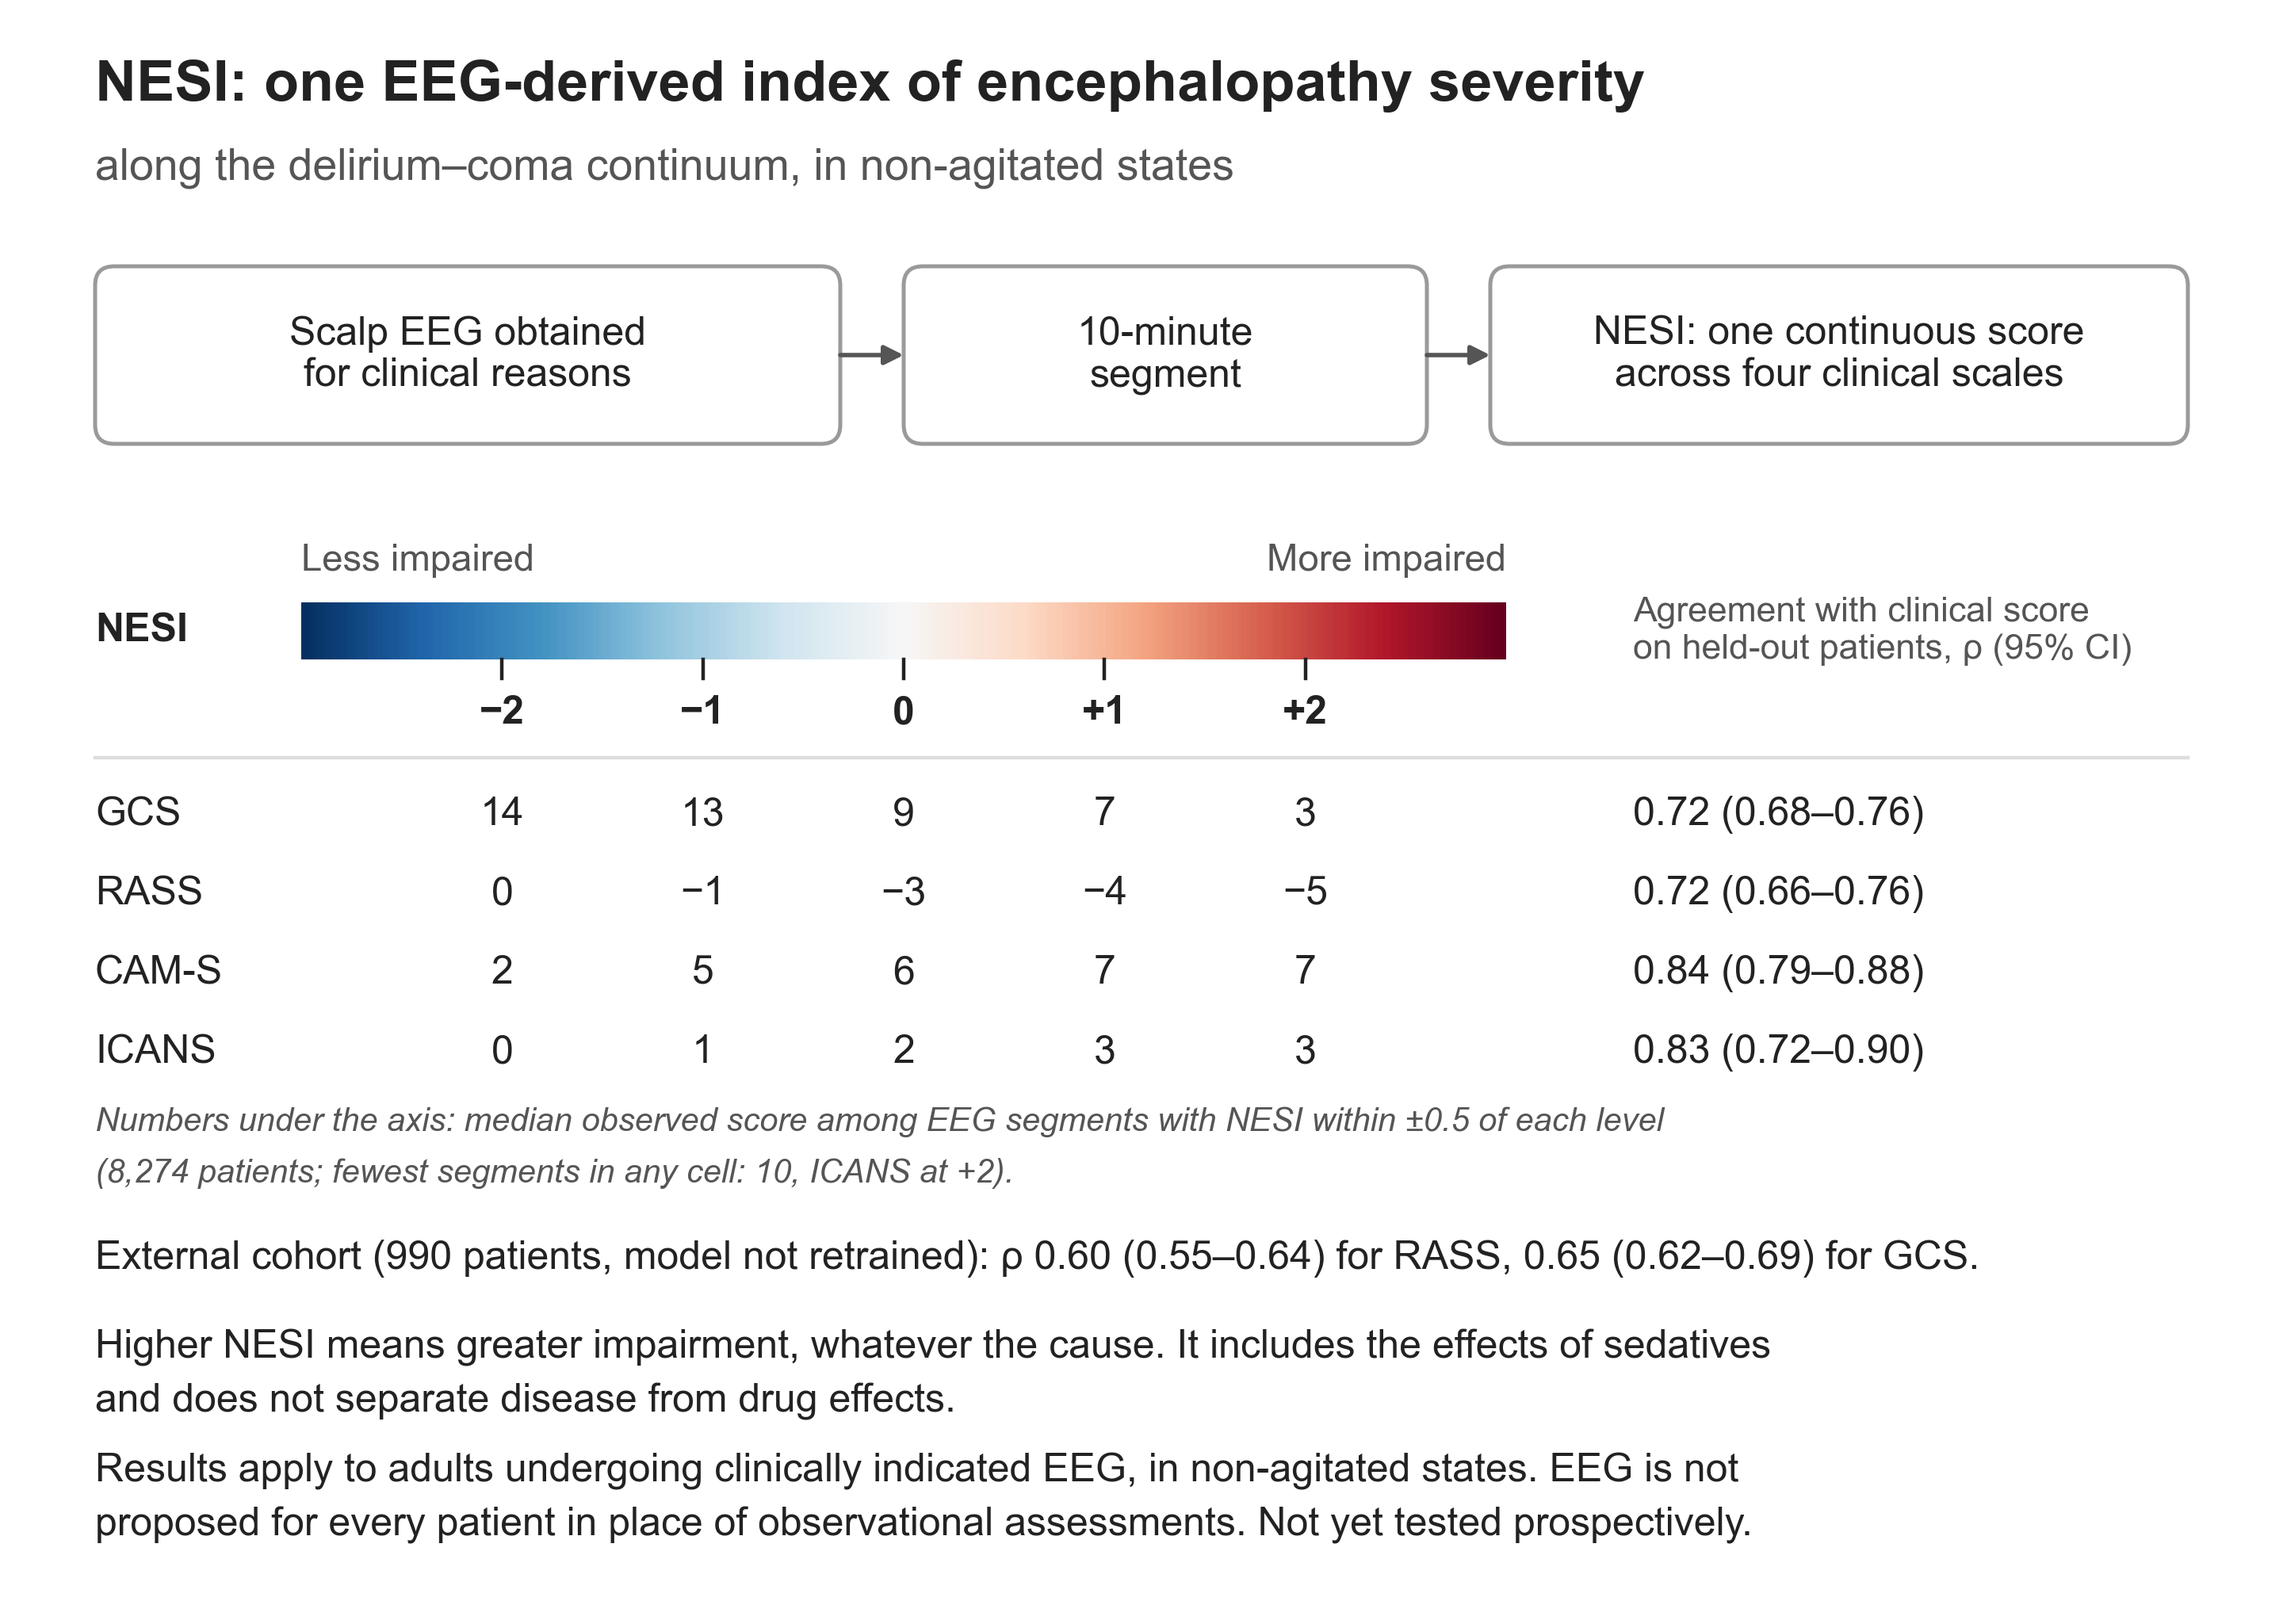
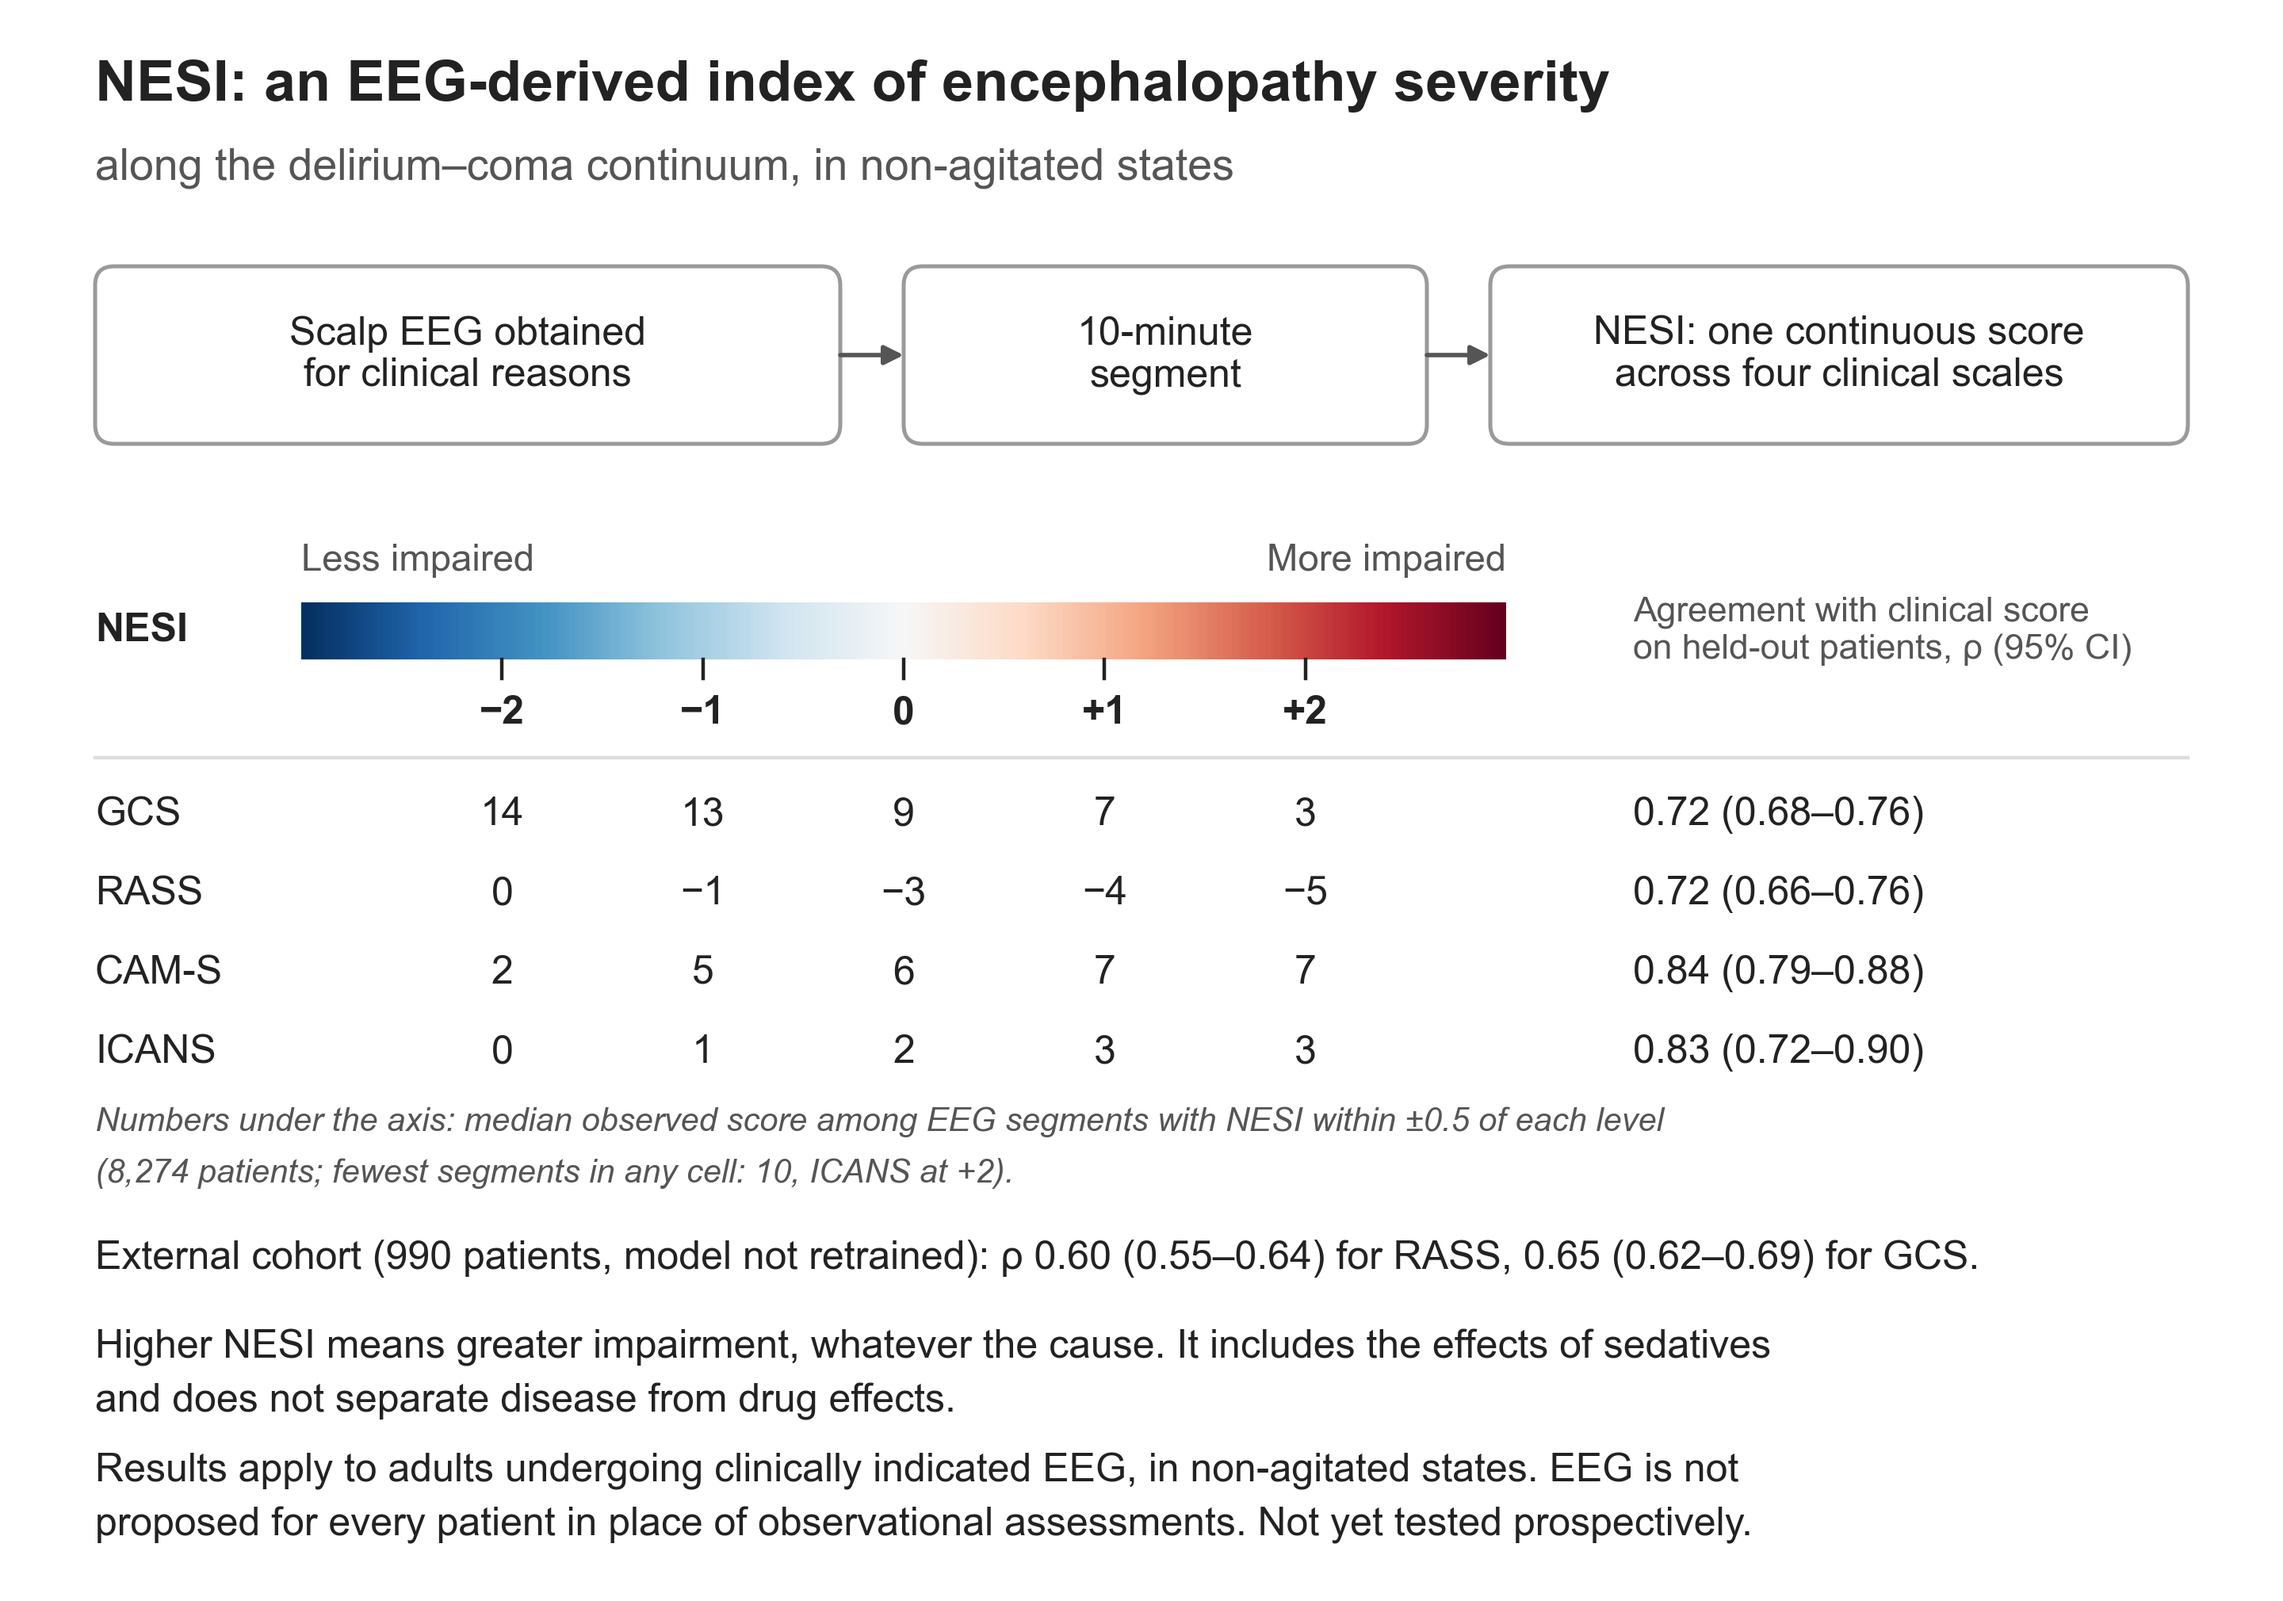
Graphical abstract title: "an EEG-derived index"

Changed region(s): [[0.125, 0.0312, 0.7188, 0.0624]]

diff --git a/reproduce/graphical_abstract.py b/reproduce/graphical_abstract.py
@@ -40,7 +40,7 @@ fig = plt.figure(figsize=(7.2, 5.05))
 ax = fig.add_axes([0, 0, 1, 1])
 ax.set_xlim(0, 7.2), ax.set_ylim(-0.2, 4.85), ax.axis("off")
 
-ax.text(0.3, 4.58, "NESI: one EEG-derived index of encephalopathy severity", fontsize=13, fontweight="bold", color=INK, va="center")
+ax.text(0.3, 4.58, "NESI: an EEG-derived index of encephalopathy severity", fontsize=13, fontweight="bold", color=INK, va="center")
 ax.text(0.3, 4.32, "along the delirium–coma continuum, in non-agitated states", fontsize=10, color=MUTED, va="center")
 
 # Flow
